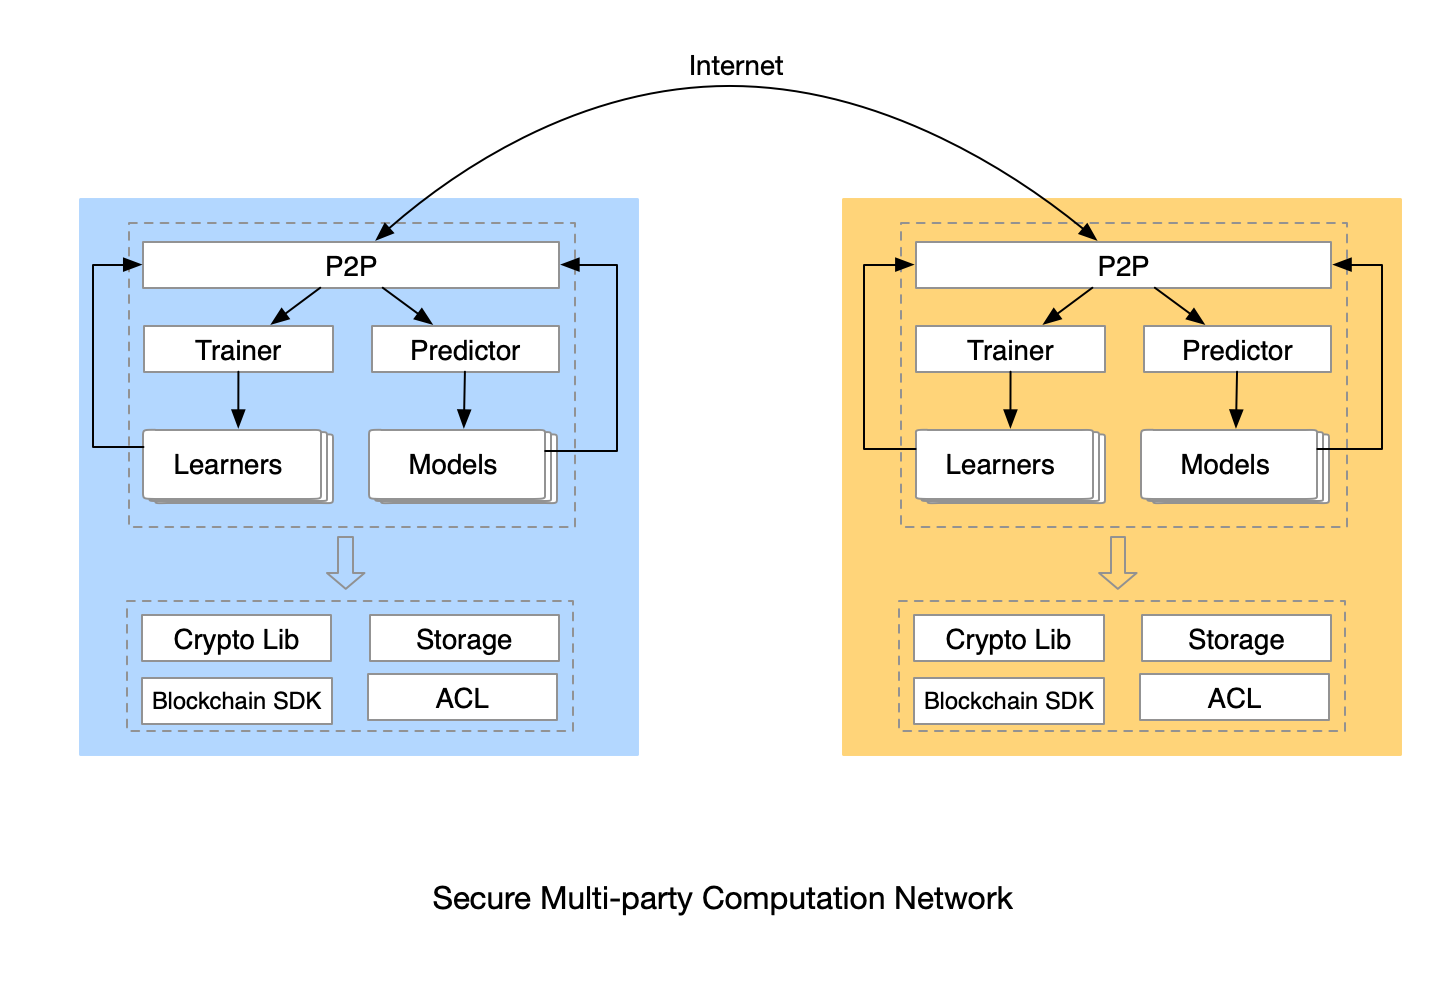
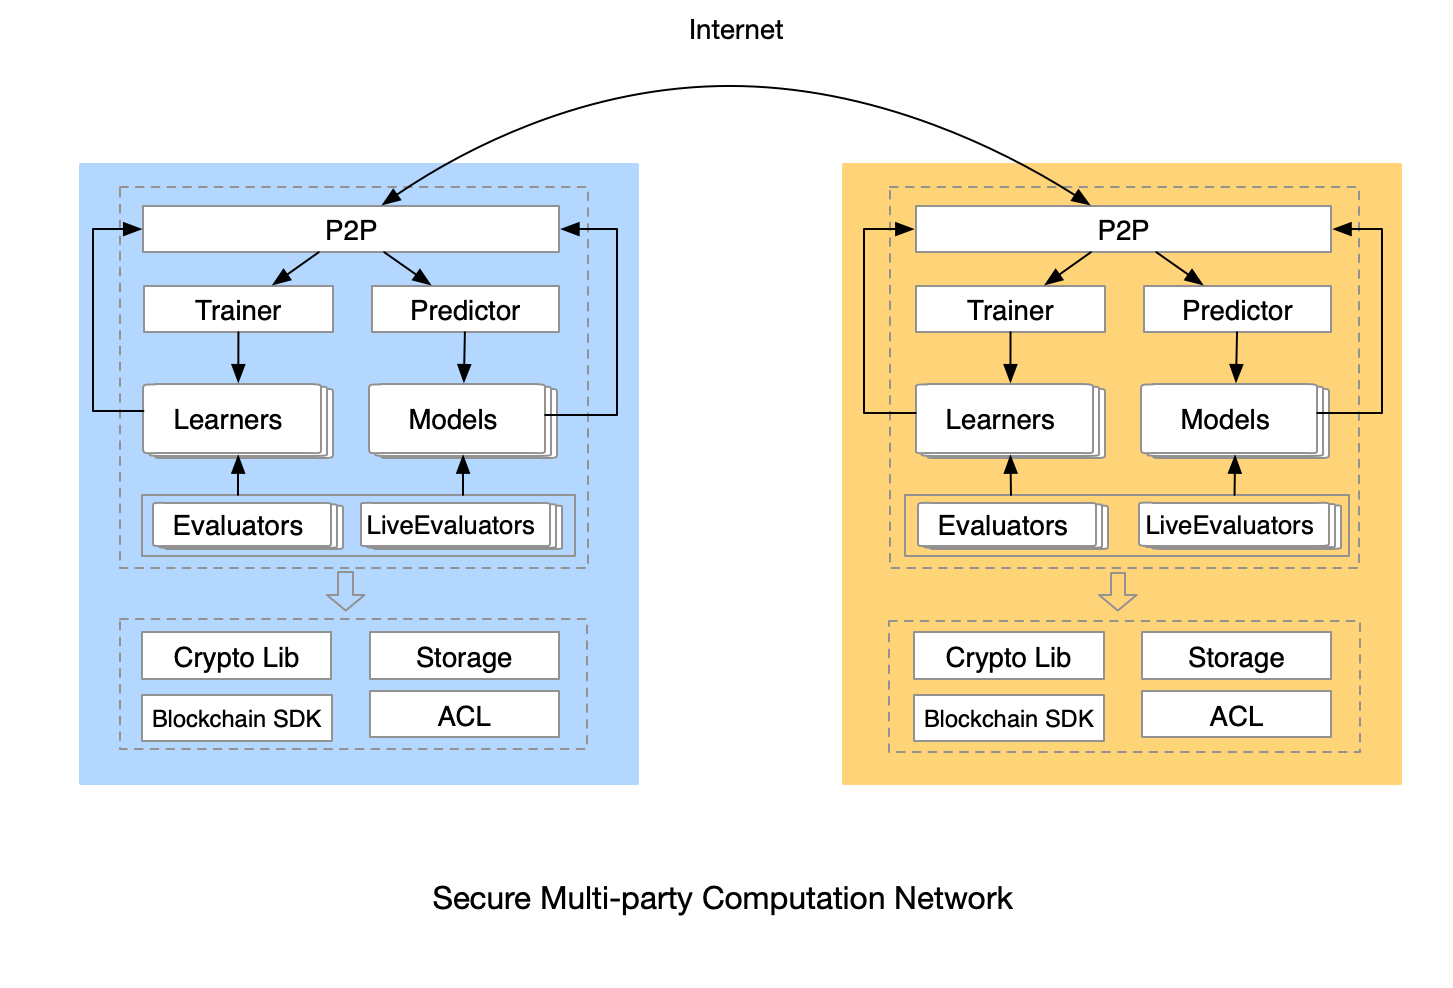
documentation on model evaluation

diff --git a/dai/requester/cmd/cli/task/publish.go b/dai/requester/cmd/cli/task/publish.go
@@ -210,7 +210,7 @@ func init() {
 	publishCmd.Flags().Int32Var(&evRule, "evRule", 0, "the way to evaluate model, 0 means 'Random Split', 1 means 'Cross Validation', 2 means 'Leave One Out'")
 	publishCmd.Flags().Int32Var(&folds, "folds", 10, "number of folds, 5 or 10 supported, a optional parameter when perform model evaluation in the way of 'Cross Validation'")
 	publishCmd.Flags().BoolVar(&shuffle, "shuffle", false, "shuffle the samples before dividion when perform model evaluation in the way of 'Cross Validation'")
-	publishCmd.Flags().Int32Var(&percentLO, "plo", 30, "percentage to leave out as validation set when perform  model evaluation in the way of 'Random Split'")
+	publishCmd.Flags().Int32Var(&percentLO, "plo", 30, "percentage to leave out as validation set when perform model evaluation in the way of 'Random Split'")
 
 	// optional params about live evaluation
 	publishCmd.Flags().BoolVar(&le, "le", false, "perform live model evaluation")

diff --git a/docs/source/details/DAI.md b/docs/source/details/DAI.md
@@ -11,12 +11,153 @@ PaddleDTX实现的多方安全计算框架，具备以下特征：
 - 任务维度动态构建计算网络
 - 支持多个学习过程并行执行
 - 可扩展，方便集成各种联邦学习算法
+- 可执行模型评估和动态模型评估
 - 以区块链、隐私计算、ACL技术为支撑，保证数据、模型的隐私性和可信性
 
 <img src='../_static/smpc.png' width = "100%" height = "100%" align="middle"/>
 
 ## 可信联邦学习
 PaddleDTX中，联邦学习分为训练过程和预测过程。计算需求方通过发布训练任务，任务执行节点会向数据持有节点做数据可信性背书，继而触发训练过程，最终得到满足条件的模型。如果有预测需求，计算需求方发布预测任务，任务执行节点会向数据持有节点做数据可信性背书，继而触发预测过程，最终得到预测结果。目前已集成的算法及其原理和实现，在 [crypto](./crypto.html#id2) 部分有更多体现。
+
+## 模型评估
+一个训练任务的输入有两个，一个是算法，一个是训练集。计算需求方需要判断采用的算法是否能在训练集上训练出好的模型，模型评估可为判断提供依据。在商业应用中，模型训练往往以试验的方式开始，根据评估的指标，不断优化超参数，最终获取比较理想的超参数。
+
+目前，PaddleDTX实现的模型评估，针对分布式、有监督的机器学习算法，可应用于任意已经实现的二分类算法、回归算法。如果计算需求方指定执行模型评估，在正常的训练任务结束后，参与训练的多方节点自动启动模型评估流程。
+
+### 评估方式
+PaddleDTX提供 3 中评估方式：Random Split、Cross Validation、Leave One Out。三者的区别在于划分训练集的方式不同，进而执行模型训练的次数不同，评估的耗时、成本也会随之不同。对于纵向联邦学习算法，在进行划分之前，会先对训练集做样本对齐，以保证多个计算节点在训练和预测过程中用到的数据集是一致的，并且不会浪费数据。
+
+#### Random Split（随机划分）
+随机打乱经过样本对齐的训练集，按照计算需求方发布任务时指定的比例（默认30%）选取数据集作为验证集，其余作为训练集用于模型训练。随机种子是对任务ID经过哈希计算得来，保证各个节点上的随机种子是一致的，这样最终得到的 2 个子集合也是一致的，在训练和预测过程中不会因为样本对齐而浪费数据。评估过程只进行 1 次分布式模型训练，1 次分布式预测验证。
+#### Cross Validation（交叉验证）
+K 折交叉验证高效利用数据，计算成本适度，是最基本最常用的模型评估方式。训练集被划分为 K 个小的子集，每次训练的时候取其中的 K - 1 作为训练集，剩余的作为验证集。评估过程进行 K 次分布式模型训练，K 次分布式预测验证。PaddleDTX支持 5 折交叉验证和 10 折交叉验证。
+
+如果计算需求方发布任务时指定打乱训练集，各方节点上运行的Evaluator会在样本对齐后随机打乱训练集。随机打乱训练集的算法和Random Split相同，保证多个计算节点最终得到的 K 个子集合是一致的。
+#### Leave One Out（留一法）
+在Leave One Out中，每次用于预测验证的样本只有 1 条数据，其余用于模型训练。如果训练集中有 N 个样本，评估过程进行 N 次分布式模型训练，N 次分布式预测验证。这种方式虽然更加充分利用数据，但是计算成本更高，用时更长，并且模型也高度相似，最终计算的各类评估指标的偏差也会比较大。
+
+### 评估指标
+分类问题相关的指标：
+
+```proto3
+message BinaryClassCaseMetricScores {
+    CaseType caseType                              = 1;
+    double avgAccuracy                             = 2; // Accuracy 的平均值
+	double avgPrecision                            = 3; // Precision 的平均值
+	double avgRecall                               = 4; // Recall 的平均值
+	double avgF1Score                              = 5; // F1Score 的平均值
+	double avgAUC                                  = 6; // AUC 的平均值
+
+    message Point {
+        // ROC曲线上的一个点，表示为 [FPR, TPR, threshold]([x,y,threshold])
+        repeated double p = 1; 
+    } 
+
+    // 每次 “训练-预测” 完成后，计算的各种指标值
+    message MetricsPerFold {
+        double accuracy     = 1;
+        double precision    = 2;
+        double recall       = 3;
+        double F1Score      = 4;
+        double AUC          = 5;
+        repeated Point ROC  = 6;
+    }
+    map<int32, MetricsPerFold> metricsPerFold   = 7;
+}
+```
+
+回归问题相关的指标：
+
+```proto3
+message RegressionCaseMetricScores {
+    CaseType caseType           = 1;
+    map<int32, double> RMSEs    = 2; // 每次 “训练-预测” 完成后，计算得到的 RMSE (Root Mean Squard Error) 
+    double meanRMSE             = 3; // RMSE 的平均值
+    double stdDevRMSE           = 4; // RMSE 的标准差
+}
+```
+
+训练任务结束后，训练样本中含有目标特征的**任务执行节点**会生成模型评估结果，包含上述指标，保存于 ./evalus 路径下。
+
+### Evaluator
+模型评估的步骤可以简述为：
+1. 初始化
+2. 划分数据集
+3. 模型训练
+4. 预测和验证
+5. 计算评估指标
+6. 结束并清理资源
+
+Evaluator 接口定义：
+
+```golang
+type Evaluator interface {
+	// Start 启动模型评估
+    // 1、划分数据集, 采用 Random Split、Cross Validation、Leave One Out 中的一种方式
+	// 2、实例化 Learners, 启动模型训练
+	// fileRows 是经过样本对齐后的训练集
+	Start(fileRows [][]string) error
+
+	// Stop 关闭模型评估, 清理数据
+	Stop()
+
+	// SaveModel 当 Learner 训练结束后, 调用该方法保存模型
+    // 如果成功训练出模型，触发实例化 Model, 启动预测过程
+	SaveModel(*pbCom.TrainTaskResult) error
+
+	// SavePredictOut 当 Model 预测结束后，调用该方法保存预测结果
+	// 1、保存预测结果
+    // 2、如果全部预测结束, 计算评估指标
+    // 3、通知模型评估结束，并返回评估结果
+	SavePredictOut(*pbCom.PredictTaskResult) error
+}
+```
+
+## 动态模型评估
+如果算法实现对接了动态模型评估的接口，在模型训练的过程中，可以持续获得模型的阶段性评估结果。训练任务执行过程中，可依据每个阶段模型的评估结果，判断是否提前终止训练。当训练任务结束时，可获得一系列评估指标，展示训练效果变化趋势。
+
+### 评估方式
+采用 Random Split 方式。
+### 评估指标
+分类问题采用 Accuracy, 回归问题采用 RMSE 。
+
+训练样本中含有目标特征的**任务执行节点**会生成阶段性模型评估结果，目前会在服务日志中体现，后续会写入可视化模块，训练过程中实时展示模型效果。
+
+### LiveEvaluator
+动态模型评估的步骤可以简述为：
+1. 初始化
+2. 划分数据集
+3. 初始化 1 个Learner
+4. 模型训练，到达暂停轮数（pause round）停止
+5. 预测和验证
+6. 计算评估指标
+7. 重复 4 - 6 直至接收到训练任务结束的消息
+8. 结束并清理资源
+
+LiveEvaluator 接口定义：
+
+```golang
+type LiveEvaluator interface {
+	// Trigger 触发模型评估
+    // 参数包含的消息分为两类：
+    // 1 启动评估流程，参数中会携带训练集、暂停轮数（pause round），该消息触发初始化 1 个 Learner 并启动训练
+    // 2 继续评估流程，该消息会触发继续训练直至到达 pause round，参数中会携带暂停轮数（pause round）
+	Trigger(*pb.LiveEvaluationTriggerMsg) error
+
+	// Stop 关闭模型评估, 清理数据
+	Stop()
+
+	// SaveModel 当 Learner 训练暂停后, 调用该方法保存模型
+    // 实例化 Model, 启动预测过程
+	SaveModel(*pbCom.TrainTaskResult) error
+
+	// SavePredictOut 当 Model 预测结束后，调用该方法保存预测结果
+	// 1、保存预测结果
+    // 2、计算评估指标
+    // 3、向可视化模块提交指标值
+	SavePredictOut(*pbCom.PredictTaskResult) error
+}
+```
 
 ## 接口与消息定义
 [任务与相关接口定义](https://github.com/PaddlePaddle/PaddleDTX/tree/master/dai/protos/task)

diff --git a/docs/source/quickstart/client.md b/docs/source/quickstart/client.md
@@ -113,6 +113,14 @@ $ ./requester-cli task publish -a "linear-vl" -l "MEDV" --keyPath './keys' -t "t
 TaskID: fdc5b7e1-fc87-4e4b-86ee-b139a7721391
 ```
 
+如果希望执行模型评估，增加 '--ev'、'--evRule'等参数：
+
+```
+$ ./requester-cli task publish -a "linear-vl" -l "MEDV" --keyPath './keys' -t "train" -n "房价预测任务v3" -d "hahahha" -p "id,id" --conf ./testdata/executor/node1/conf/config.toml -f "01edba10-ef04-4096-a984-c81191262d03,21e5b591-9126-4df8-8b84-72a682a46fc1" -e "executor1,executor2"  --ev
+# 命令行返回
+TaskID: fdc5b7e1-fc87-4e4b-86ee-b139a7721391
+```
+
 命令行各参数说明如下：
 
 * -a: 训练使用的算法, 可选线性回归 'linear-vl' 或逻辑回归 'logistic-vl'
@@ -125,6 +133,8 @@ TaskID: fdc5b7e1-fc87-4e4b-86ee-b139a7721391
 * --conf: 使用的配置文件
 * -f: 训练使用的文件ID, 这里是一个列表, 指明了各个任务执行方需要使用的文件
 * -e: 任务执行节点名称, 和-f 一一对应, 执行节点执行任务时, 分别取对应位置的样本文件
+* --ev: 训练结束后，执行模型评估
+* --evRule: 模型评估方式，可选随机划分训练集 '0'、10折交叉验证 '1' 或者 Leave One Out '2', 默认取值'0'
 
 与 XuperDB 的使用方法一致，当使用 docker-compose 部署时需要进入容器执行命令或者使用 docker exec 命令，后续命令将不再赘述。
 
@@ -134,7 +144,7 @@ TaskID: fdc5b7e1-fc87-4e4b-86ee-b139a7721391
 
 ### 启动训练任务
 
-当所有的任务执行节点对任务进行确认后，需要计算需求方触发启动命令的执行，训练任务的执行结果是产出一个预测模型。
+当所有的任务执行节点对任务进行确认后，需要计算需求方触发启动命令的执行，训练任务的执行结果是产出一个预测模型。如果在发布训练任务的时候指定执行模型评估，训练任务结束后，训练样本中含有目标特征的一方会生成模型评估结果，并保存于 ./evalus 路径下。
 
 ```
 $ ./requester-cli task start --id fdc5b7e1-fc87-4e4b-86ee-b139a7721391 --keyPath './keys' --conf ./testdata/executor/node1/conf/config.toml
@@ -151,6 +161,7 @@ $ ./requester-cli task start --id fdc5b7e1-fc87-4e4b-86ee-b139a7721391 --keyPath
 
 ```
 $ ./requester-cli task publish -a "linear-vl" --keyPath './keys' -t "predict" -n "房价任务v3" -d "hahahha" -p "id,id" --conf ./testdata/executor/node1/conf/config.toml -f "01d3b812-4dd7-4deb-a48d-4437312a164a,e02b27a6-0057-4673-b7ec-408ad060c952" -i fdc5b7e1-fc87-4e4b-86ee-b139a7721391  -e "executor1,executor2"
+# 命令行返回
 TaskID: a7dfac43-fa51-423e-bd05-8e0965c708a8
 ```
 

diff --git a/dai/requester/cmd/README.md b/dai/requester/cmd/README.md
@@ -179,6 +179,13 @@ $  ./requester-cli task list  --keyPath ./keys
 |   --accuracy  |      accuracy    |    |    no, default is 10    |
 |   --description  |    -d      | task  description  |   no   |
 |   --batchSize  |    -b      |  size of samples for one round of training loop, |   no, default is 4   |
+|   --ev  |          | perform model evaluation |   no   |
+|   --evRule  |          | the way to evaluate model, 0 means 'Random Split', 1 means 'Cross Validation', 2 means 'Leave One Out' |   no, default is 0   |
+|   --folds  |          | number of folds, 5 or 10 supported, a optional parameter when perform model evaluation in the way of 'Cross Validation' |   no, default is 10   |
+|   --shuffle  |          | shuffle the samples before dividion when perform model evaluation in the way of 'Cross Validation' |   no   |
+|   --plo  |          | percentage to leave out as validation set when perform model evaluation in the way of 'Random Split' |   no, default is 30   |
+|   --le  |          | perform live model evaluation |   no   |
+|   --lplo  |          | percentage to leave out as validation set when perform live model evaluation |   no, default is 30   |
 
 ```shell
 $  ./requester-cli task publish -a "linear-vl" -l "MEDV" -k 14a54c188d0071bc1b161a50fe7eacb74dcd016993bb7ad0d5449f72a8780e21 -t "train" -n "房价预测任务" -d "it's a test" -p "id,id" -f "52357151-de44-445a-a137-9c79a33c12ed,21e44577-c57f-4c92-b97e-7213222062da" -e "executor1,executor2"

diff --git a/docs/source/introduction/ongoing.md b/docs/source/introduction/ongoing.md
@@ -3,6 +3,5 @@
 我们即将支持的主要功能如下:
 1. 支持更多的机器学习算法和对应的分布式改造，主要包括神经网络、决策树等；
 2. 支持横向联邦学习算法，计划先对多元线性回归和多元逻辑回归进行改造；
-3. 提供联邦学习训练参数的评估能力，通过交叉验证等方式评估训练参数的优劣；
-4. 优化目前使用的加法同态算法Paillier的性能；
-5. 去中心化存储服务支持负载均衡策略，根据存储节点剩余资源和以往表现情况，在文件分发时找到最优节点列表。
+3. 优化目前使用的加法同态算法Paillier的性能；
+4. 去中心化存储服务支持负载均衡策略，根据存储节点剩余资源和以往表现情况，在文件分发时找到最优节点列表。
